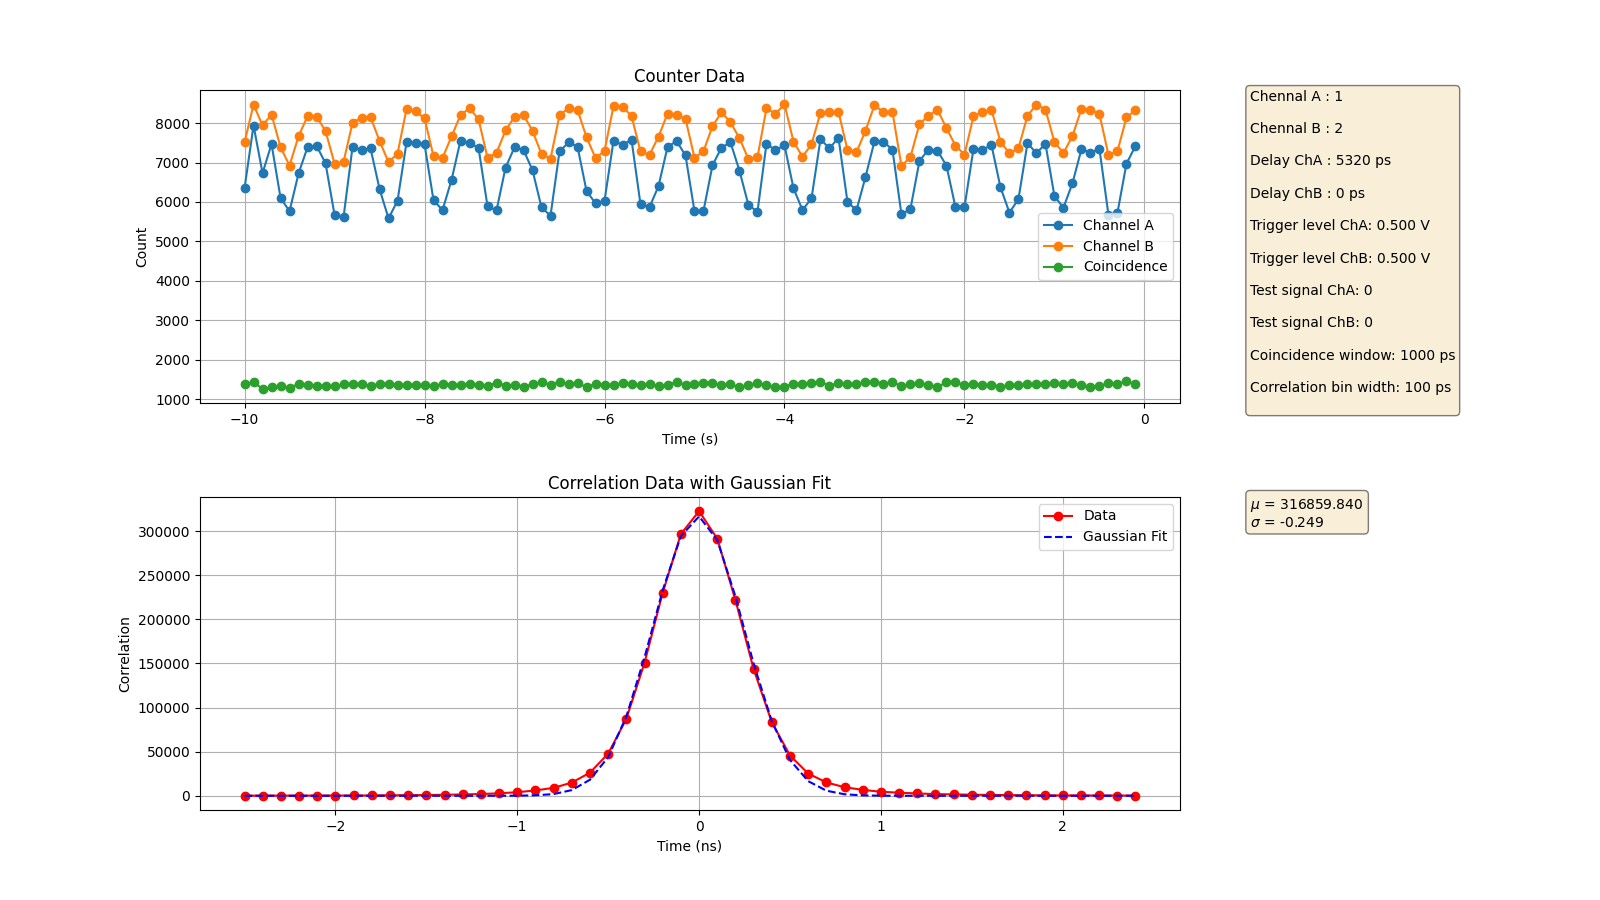
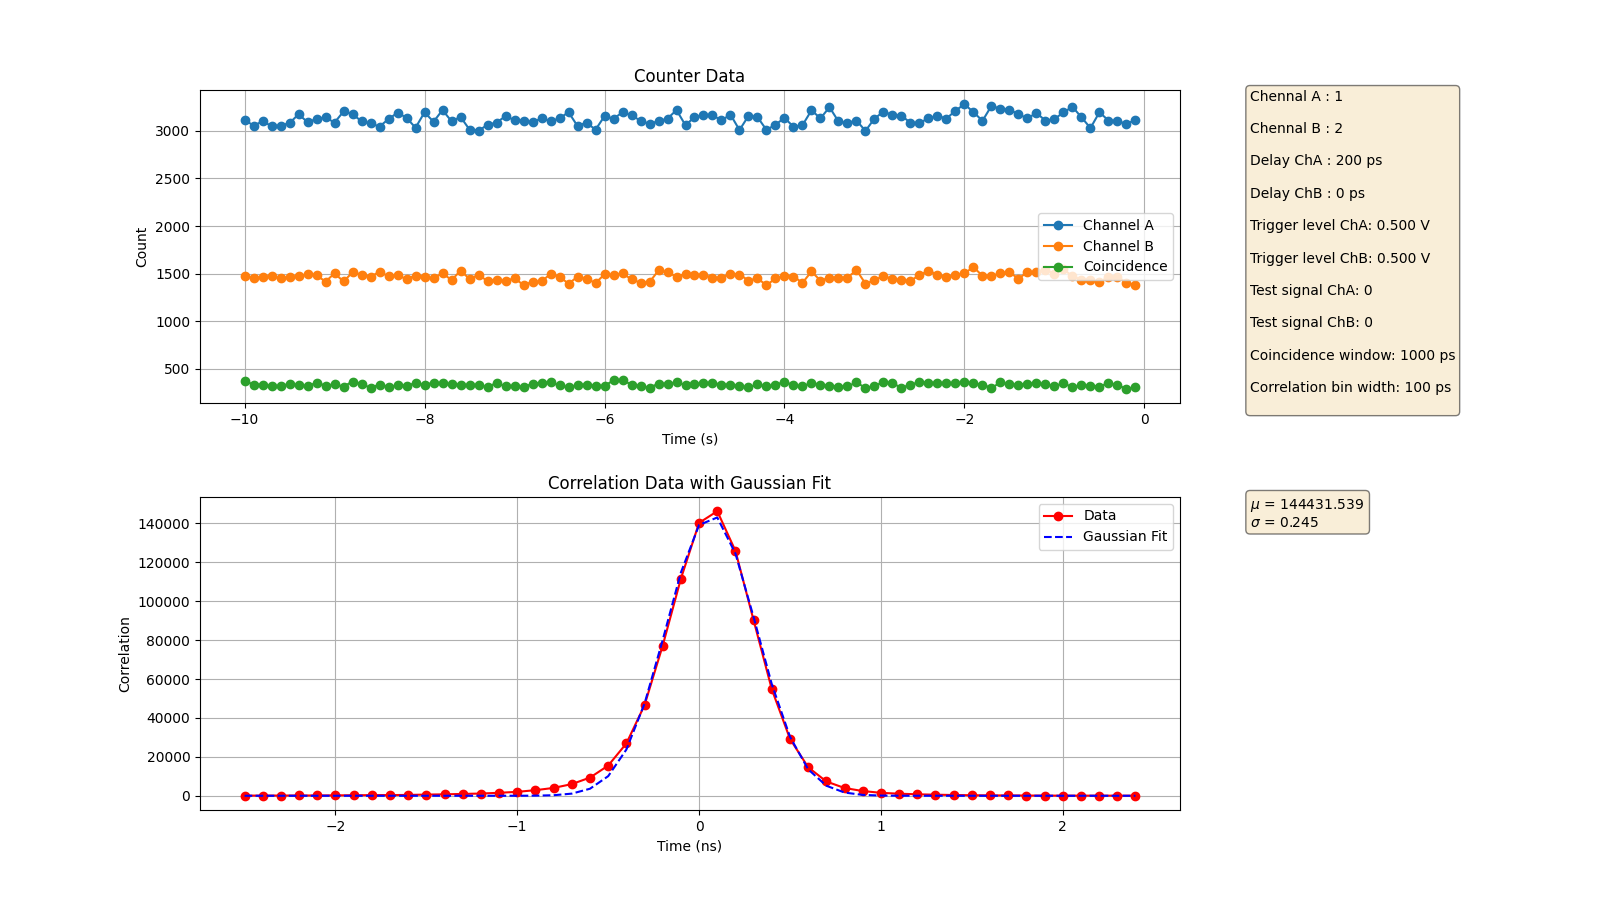
new data

diff --git a/TimeTagger/data_to_fig.py b/TimeTagger/data_to_fig.py
@@ -21,7 +21,7 @@ def gaussian(x, a, mu, sigma):
 
 
 # 파일 경로
-file_path = "CoincidenceExampleData_ERROR.txt"
+file_path = "CoincidenceExampleData_16.txt"
 fig = plt.figure(num=1, figsize=(16, 9))
 fig1 = plt.figure(num=2, figsize=(14, 7))
 
